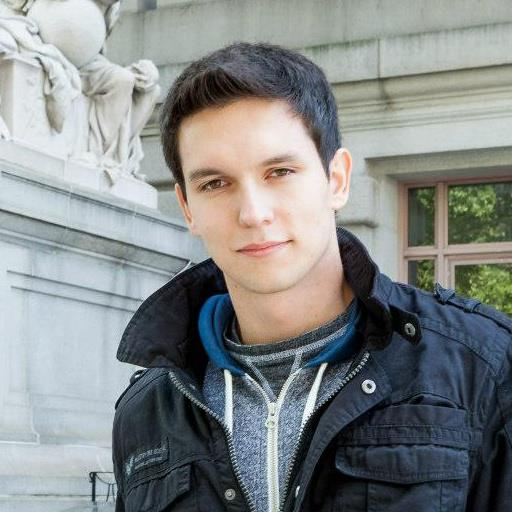
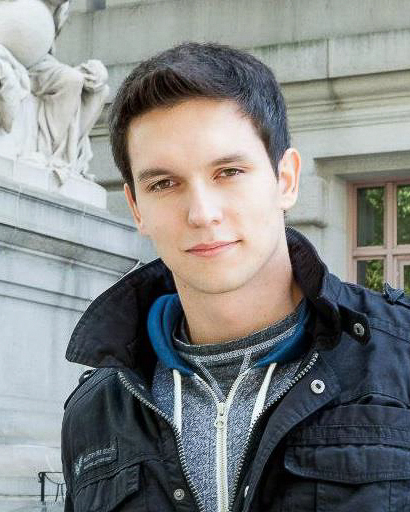
Version 6
* Text alignment
* Changing text
* Photo alignment

diff --git a/index.html b/index.html
@@ -2,7 +2,7 @@
 <html lang="en">
 <head>
   <meta charset="UTF-8" />
-  <title>Your Website</title>
+  <title>Daniel</title>
 	
  <link rel="icon" href="favicon.ico">	
  
@@ -21,37 +21,34 @@
 		<div class="grid_12 alpha">
 
 		<!-- Your Content -->
-			<h1>Daniel Kovalyov</h1>
-			<p><b>Hi, I'm Daniel. I was born in Boston and raised in the town of Sudbury. His mother, Lisa (Capuano), is an artistic director at the Concord Youth Theater, and his father, Bob, is a dentist. </p></b>
-
+			<header>
+  <h1>Daniel Kovalyov</h1>
+   
+<nav id="navigation">  
+  <ul>
+    <li><a href="#">Home</a></li>
+    <li><a href="#">About</a></li>
+    <li><a href="#">Portfolio</a></li>
+    <li><a href="#">Contact</a></li>
+  </ul>
+</nav>
 		</div>
 
-		
-		<div class="grid_6 omega">
+		<div class="grid_12">
 			<img src="img/portrait1.jpg">
-		
+			<img src="img/portrait2.jpg">
+			<img src="img/portrait3.jpg">
 		</div>
 
 		<!-- Second Band -->
-		<div class="grid_4 alpha">
-			<h3>Favorite Foods</h3>
-
-			<ul>
-			</ul>
-			<ul>
-				<li>Sushi</li>
-				<li>Borsh</li>
-				<li>Olivie</li>
-			</ul>
+		<div class="grid_6 alpha">
+			<h3>Visual Communication and Design</h3>
+			<p></p>
 		</div>
 
-		<div class="grid_4">
-		<h3>Favorite Classes</h3>
-		<ol>
-			<li>Photography</li>
-			<li>VCD 1, 2, 3</li>
-			<li>Typography</li>
-		</ol>
+		<div class="grid_6 omega">
+		<h3>Professional Objectives</h3>
+		<p></p>
 		</div>
 
 		<div class="grid_4 omega">
@@ -63,7 +60,7 @@
 		<!-- Clearfix -->
 		<div class="clear"></div>
 
-	</div>
+</div>
 	
   
 </body>

diff --git a/css/styles.css b/css/styles.css
@@ -3,10 +3,93 @@ body {
 	background: white;
 }
 
+@import url(http://fonts.googleapis.com/css?family=Roboto:100);
+
+html, body {
+  margin:0;
+  padding:0;
+  width:100%;
+  height:100%;
+}
+
+body { 
+  background: color white;
+}
+
+header:after{
+  content:" ";
+  position:absolute;
+  width:100%;
+  background:#B8D973;
+  top:482px;
+  z-index:-1;
+}
+h1{
+  font: 55px 'roboto', sans-serif;
+  font-weight:300;
+  color:#48484A;
+  text-align:center;
+  padding:3em 0px .3em 0px;
+  margin:0;
+}
+nav {
+  display:inline-block;
+  position:relative;
+  top:10px;
+  margin:0;
+  padding:0;
+  width:105%;
+  height:70px;
+  
+  text-align:center;
+  
+  background-color:white(255,255,255,0);
+}
+
+nav ul {
+  margin:0;
+  margin-top:0px;
+  margin-right:120px;
+  padding:40;
+}
+
+nav ul li {
+  display:inline-block;
+  list-style:none;
+}
+
+nav ul li a {
+  display:block;
+  margin:0;
+  padding:7px 20px;
+  
+  color:#1e1e1e;
+  font-family:'roboto', sans-serif;
+  font-size:1.7em;
+  text-decoration:none;
+  
+  border-bottom:2px solid transparent;
+  box-shadow:0px 2px 0px transparent
+  
+  transition:all .20s ease;
+  -webkit-transition:all .20s ease;
+  -moz-transition:all .20s ease;
+  -o-transition:all .20s ease;
+}
+
+nav ul li a:hover {
+  border-bottom:2px solid #333;
+}
+
 img {
 	width: 300px
 }
-h1 {
+
+img { url("../img/portrait2.jpg");
+width:  330px
+}
+
+h3 {
 	color: orange;
 	font-family: 'Balthazar', serif;
 	letter-spacing: 4px;
